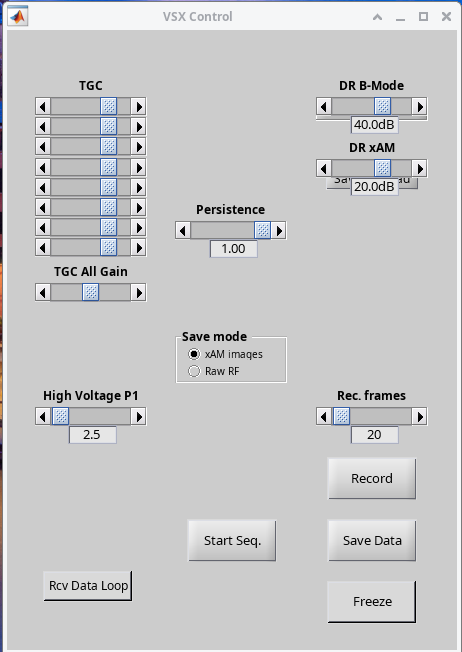
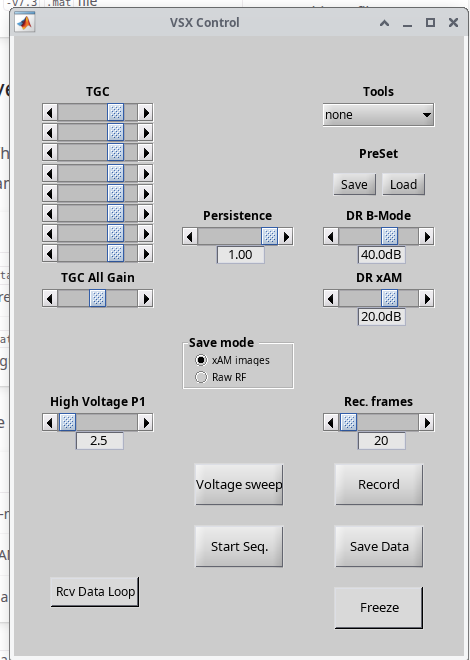
Move DR sliders clear of the VSX PreSet and Tools controls
UserC7 and UserC8 are occupied by the built-in PreSet buttons and Tools
menu in the VSX control panel, so DR xAM and DR B-Mode overlapped them.
Move the sliders to the free UserC5 and UserC6 slots and update the docs
and panel screenshot.

diff --git a/xAM_imaging.m b/xAM_imaging.m
@@ -623,14 +623,15 @@ UI(n_ui).Callback = {'xw_change_persistence(UIValue)'};
 n_ui = n_ui + 1;
 
 UISTATES.dr_bmode = 40; % dynamic range B-mode
-UI(n_ui).Control = {'UserC8', 'Style', 'VsSlider', 'Label', 'DR B-Mode', ...
+% UserC7 and UserC8 hold the VSX PreSet and Tools controls, so use C6 and C5
+UI(n_ui).Control = {'UserC6', 'Style', 'VsSlider', 'Label', 'DR B-Mode', ...
                         'SliderMinMaxVal', [0, 60, UISTATES.dr_bmode], ...
                         'SliderStep', [0.01, 0.1], 'ValueFormat', '%2.1fdB'};
 UI(n_ui).Callback = {'xw_change_dr(''bmode'', UIValue)'};
 n_ui = n_ui + 1;
 
 UISTATES.dr_xam = 20; % dynamic range minimum
-UI(n_ui).Control = {'UserC7', 'Style', 'VsSlider', 'Label', 'DR xAM', ...
+UI(n_ui).Control = {'UserC5', 'Style', 'VsSlider', 'Label', 'DR xAM', ...
                         'SliderMinMaxVal', [0, 30, UISTATES.dr_xam], ...
                         'SliderStep', [0.01, 0.1], 'ValueFormat', '%2.1fdB'};
 UI(n_ui).Callback = {'xw_change_dr(''xam'', UIValue)'};

diff --git a/docs/gui-controls.md b/docs/gui-controls.md
@@ -17,8 +17,8 @@ controls.
 | **Freeze** | VSX | Pauses and resumes the sequence. Needed before **Save Data**. |
 | **High Voltage P1** | VSX | Transmit voltage. Start low and increase slowly until xAM signal appears; too high collapses the GVs. |
 | **Persistence** | `UserB6` | Blends each new image with the previous one: `1.0` shows only the new frame, lower values average over more frames. Only the display and `BFData` are smoothed; recordings and `BFData_raw` are not. |
-| **DR B-Mode** | `UserC8` | Dynamic range of the B-mode display [dB]. |
-| **DR xAM** | `UserC7` | Dynamic range of the xAM display [dB]. |
+| **DR B-Mode** | `UserC6` | Dynamic range of the B-mode display [dB]. |
+| **DR xAM** | `UserC5` | Dynamic range of the xAM display [dB]. |
 | **Save mode** | `UserB4` | What **Save Data** and **Record** save: *xAM images* (beamformed `BFData`) or *Raw RF* (receive data). The voltage sweep has its own setting (`--sweep-save`). |
 | **Save Data** | `UserC1` | Opens the save menu for a snapshot of the frozen sequence. The menu is preset for the selected save mode. |
 | **Rec. frames** | `UserC3` | Number of frames saved per recording (1-500). |
